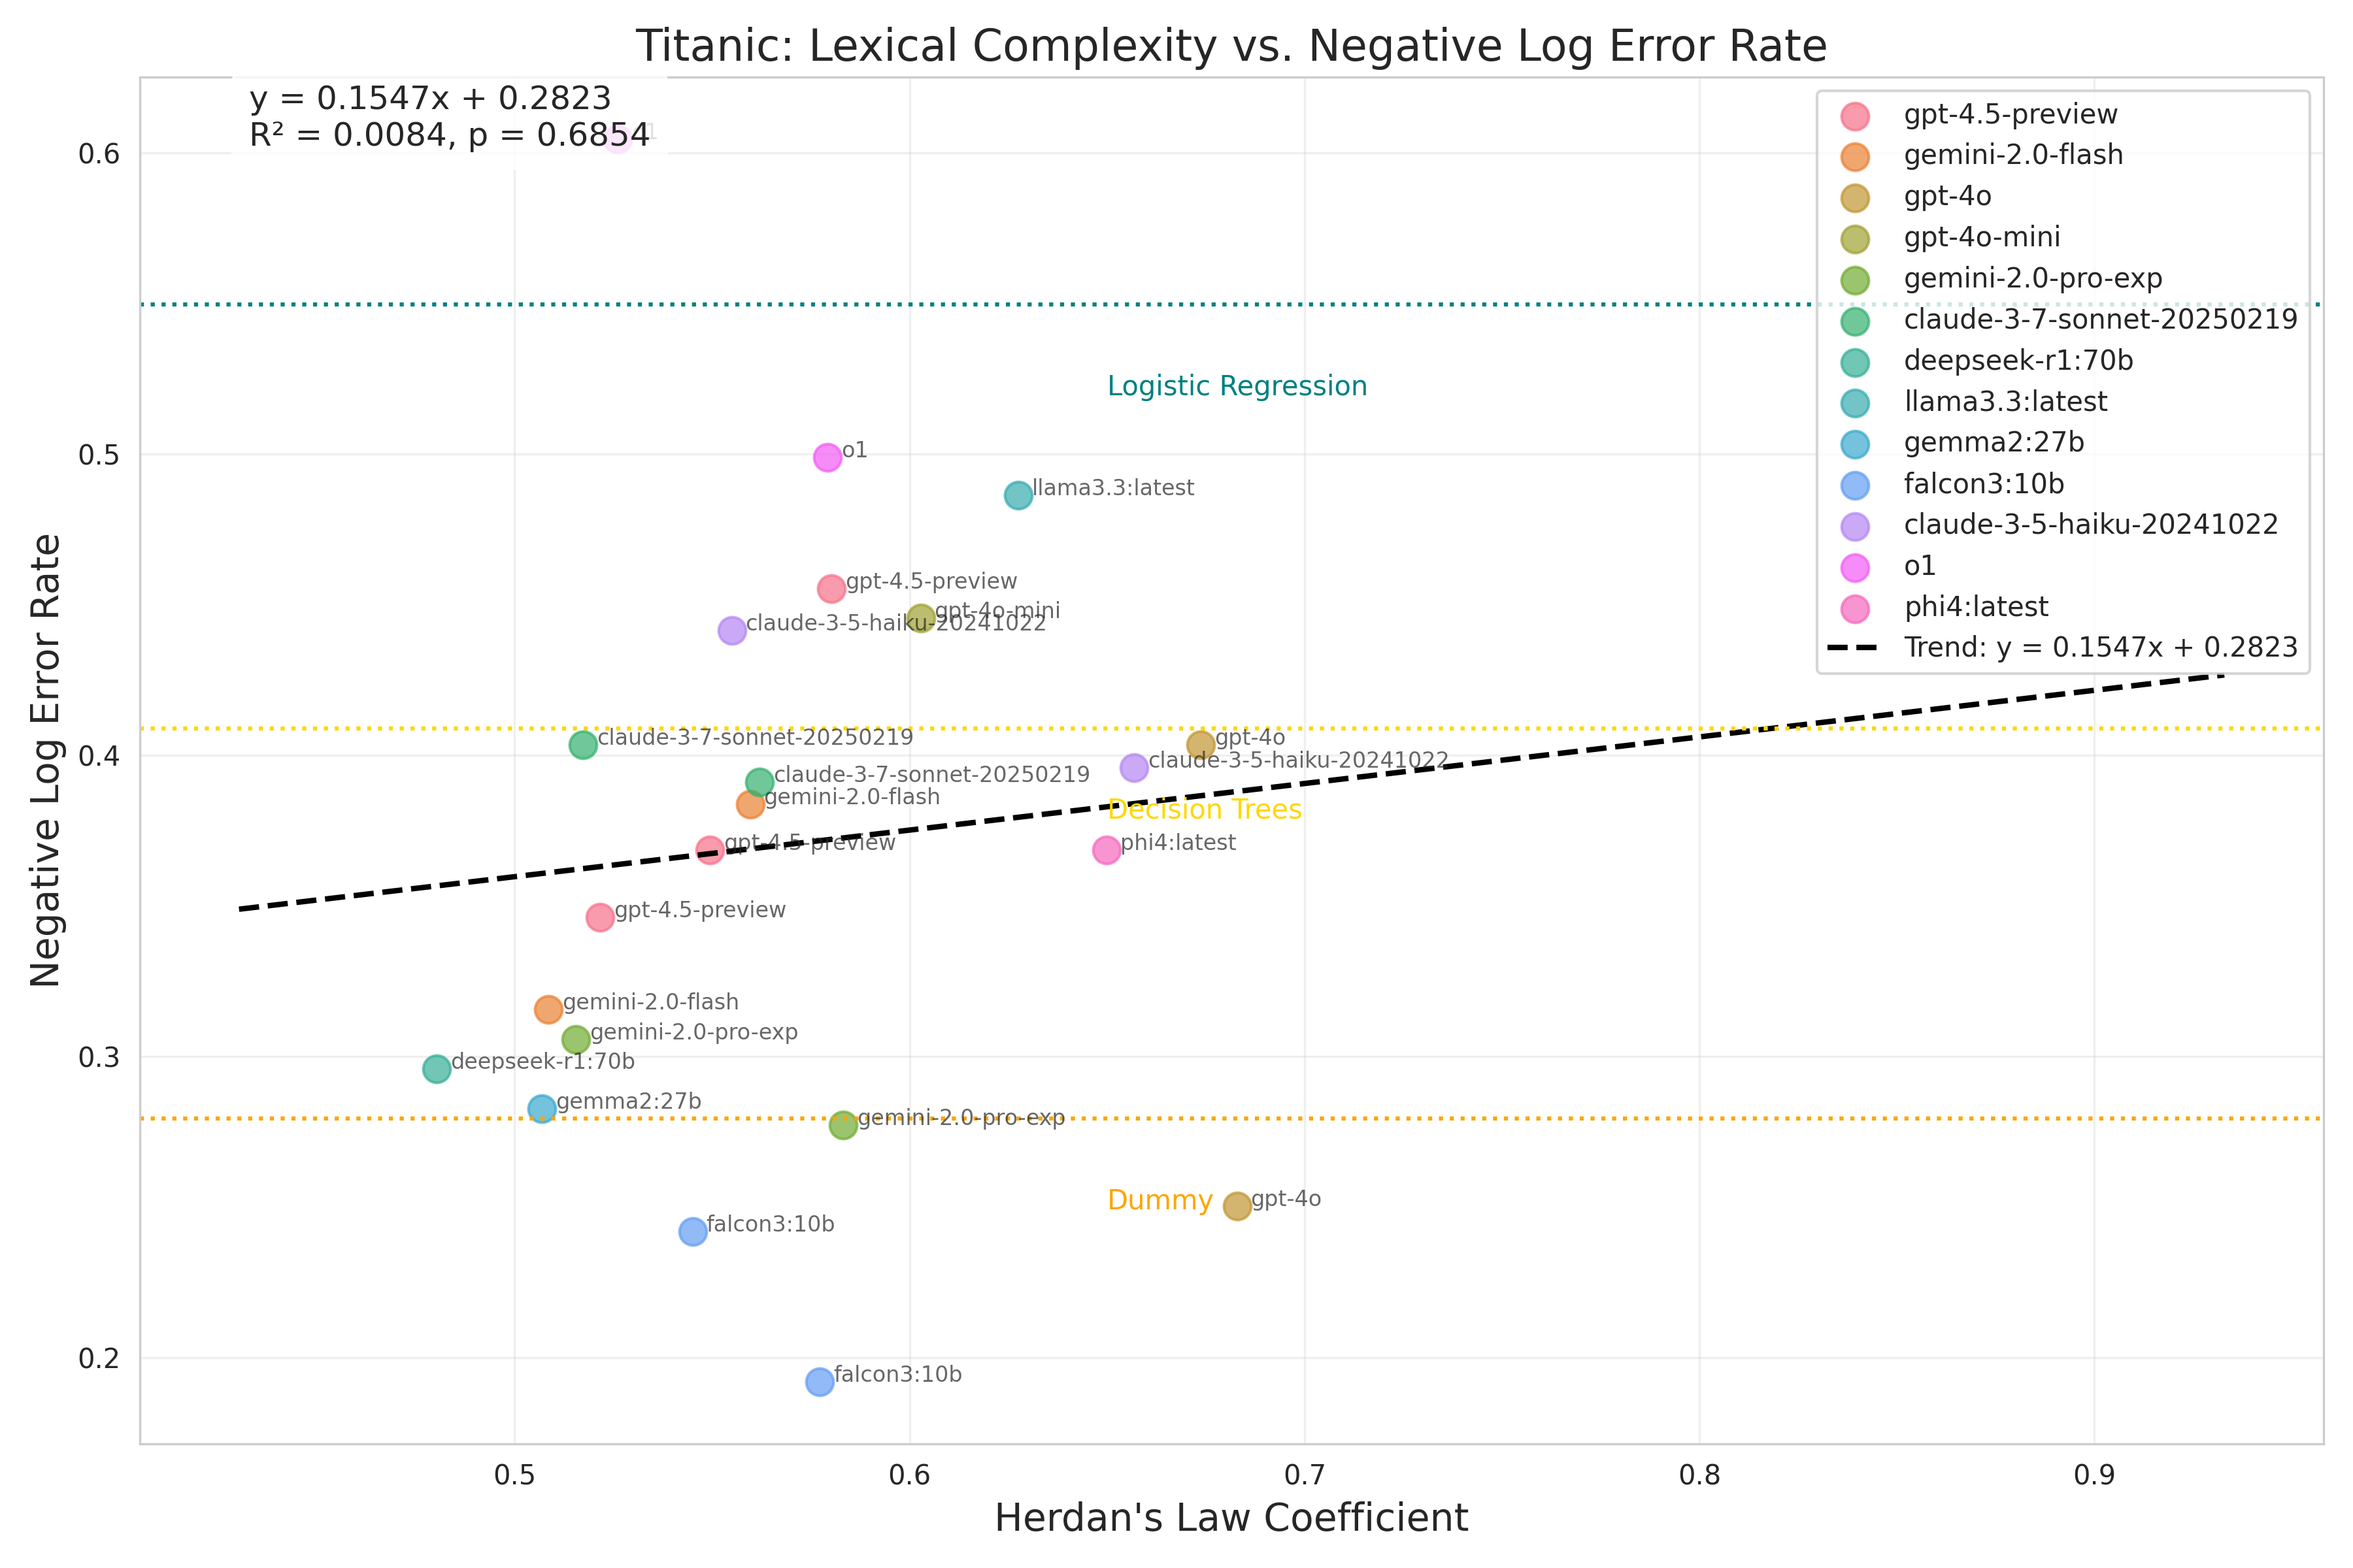
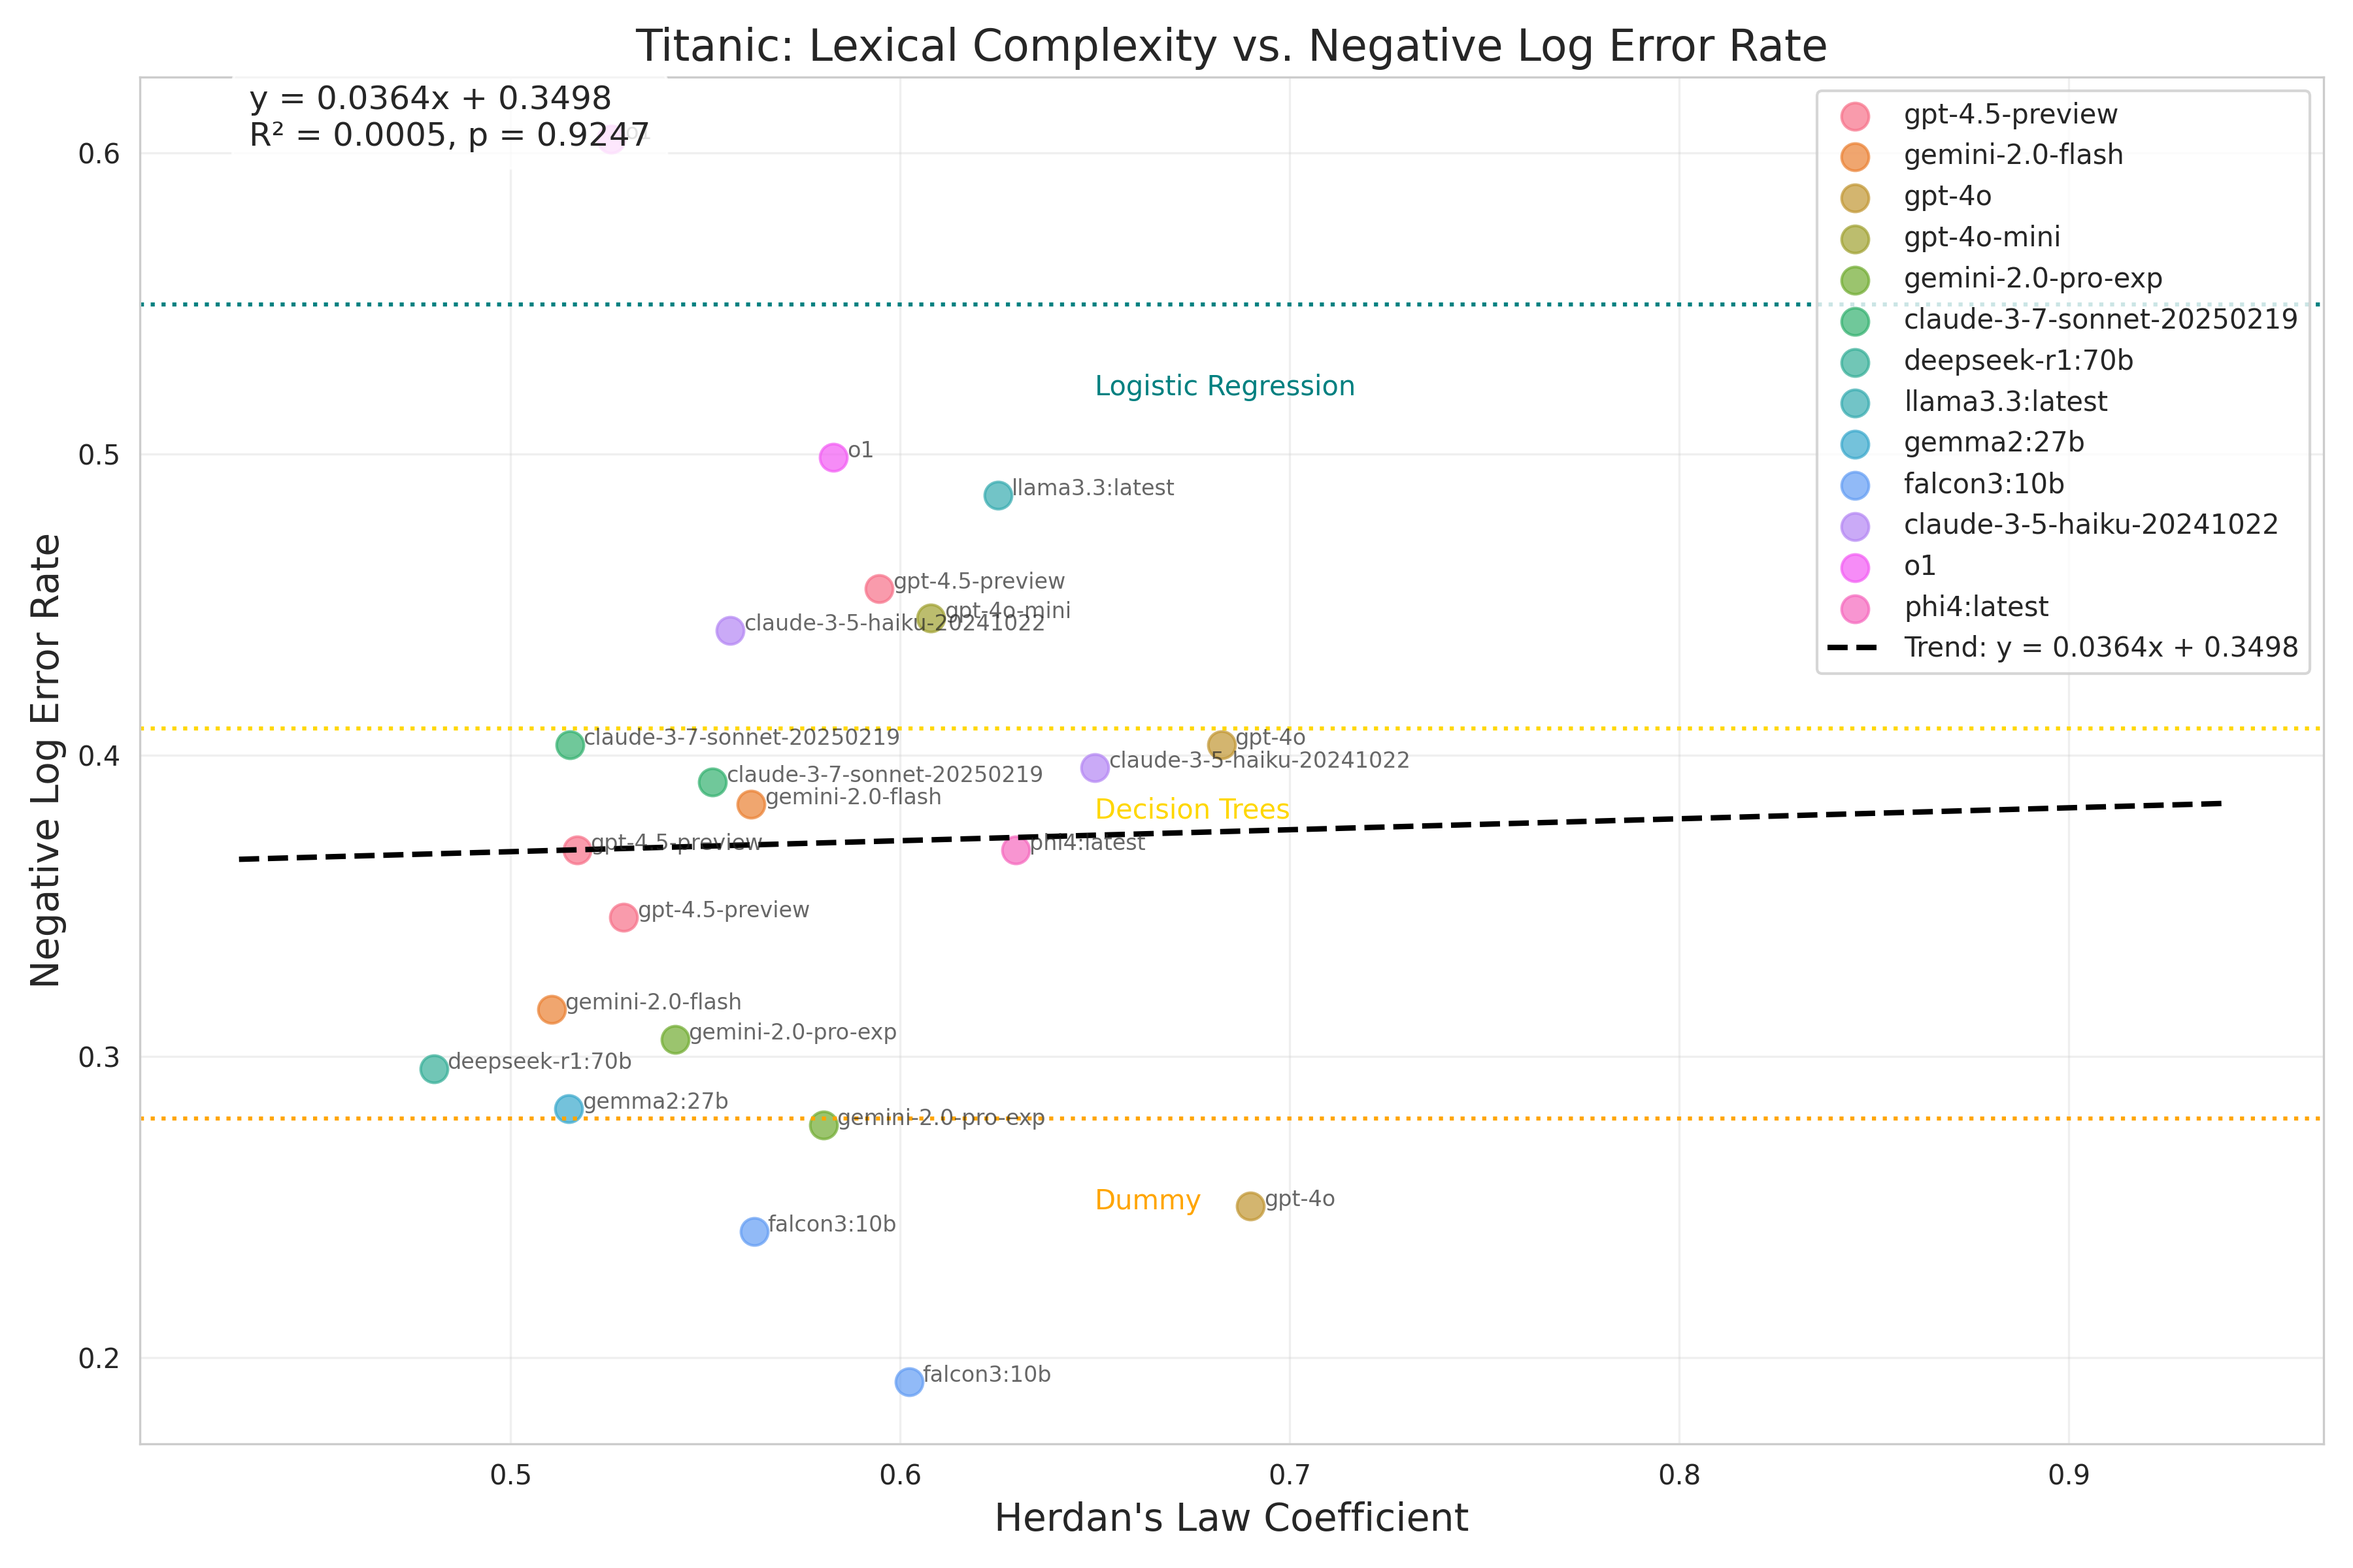
Latest experimental results

diff --git a/outputs/herdan-model-size-definitions.tex b/outputs/herdan-model-size-definitions.tex
@@ -1,3 +1,3 @@
 \newcommand{\herdansizetrend}{-0.024}
-\newcommand{\herdansizetrendpvalue}{0.045}
-\newcommand{\herdanaveragecorrelation}{0.47}
+\newcommand{\herdansizetrendpvalue}{0.044}
+\newcommand{\herdanaveragecorrelation}{0.45}

diff --git a/outputs/southgermancredit_error_rate_by_herdan_slope.tex b/outputs/southgermancredit_error_rate_by_herdan_slope.tex
@@ -1,1 +1,1 @@
--0.203
+-0.233

diff --git a/outputs/southgermancredit_error_rate_by_herdan_pvalue.tex b/outputs/southgermancredit_error_rate_by_herdan_pvalue.tex
@@ -1,1 +1,1 @@
-0.339
+0.309

diff --git a/outputs/titanic_error_rate_by_herdan_pvalue.tex b/outputs/titanic_error_rate_by_herdan_pvalue.tex
@@ -1,1 +1,1 @@
-0.685
+0.925

diff --git a/outputs/titanic_error_rate_by_herdan_slope.tex b/outputs/titanic_error_rate_by_herdan_slope.tex
@@ -1,1 +1,1 @@
-0.155
+0.036

diff --git a/outputs/wisconsin_error_rate_by_herdan_pvalue.tex b/outputs/wisconsin_error_rate_by_herdan_pvalue.tex
@@ -1,1 +1,1 @@
-0.026
+0.041

diff --git a/outputs/wisconsin_error_rate_by_herdan_slope.tex b/outputs/wisconsin_error_rate_by_herdan_slope.tex
@@ -1,1 +1,1 @@
-1.477
+1.364

diff --git a/outputs/southgermancredit_error_rate_by_cumulative_wordcount_slope.tex b/outputs/southgermancredit_error_rate_by_cumulative_wordcount_slope.tex
@@ -1,0 +1,1 @@
+-0.000056

diff --git a/outputs/southgermancredit_error_rate_by_prompt_wordcount_slope.tex b/outputs/southgermancredit_error_rate_by_prompt_wordcount_slope.tex
@@ -1,0 +1,1 @@
+-0.000034

diff --git a/outputs/southgermancredit_error_rate_by_reasoning_wordcount_slope.tex b/outputs/southgermancredit_error_rate_by_reasoning_wordcount_slope.tex
@@ -1,0 +1,1 @@
+-0.000159

diff --git a/outputs/titanic_error_rate_by_cumulative_wordcount_slope.tex b/outputs/titanic_error_rate_by_cumulative_wordcount_slope.tex
@@ -1,0 +1,1 @@
+0.000034

diff --git a/outputs/titanic_error_rate_by_prompt_wordcount_slope.tex b/outputs/titanic_error_rate_by_prompt_wordcount_slope.tex
@@ -1,0 +1,1 @@
+0.000114
